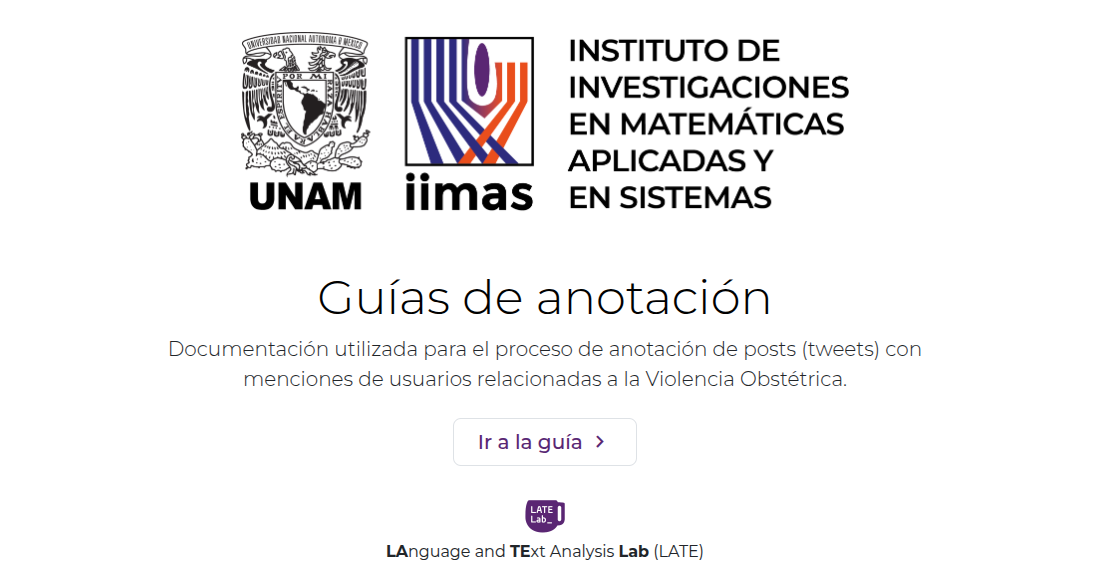
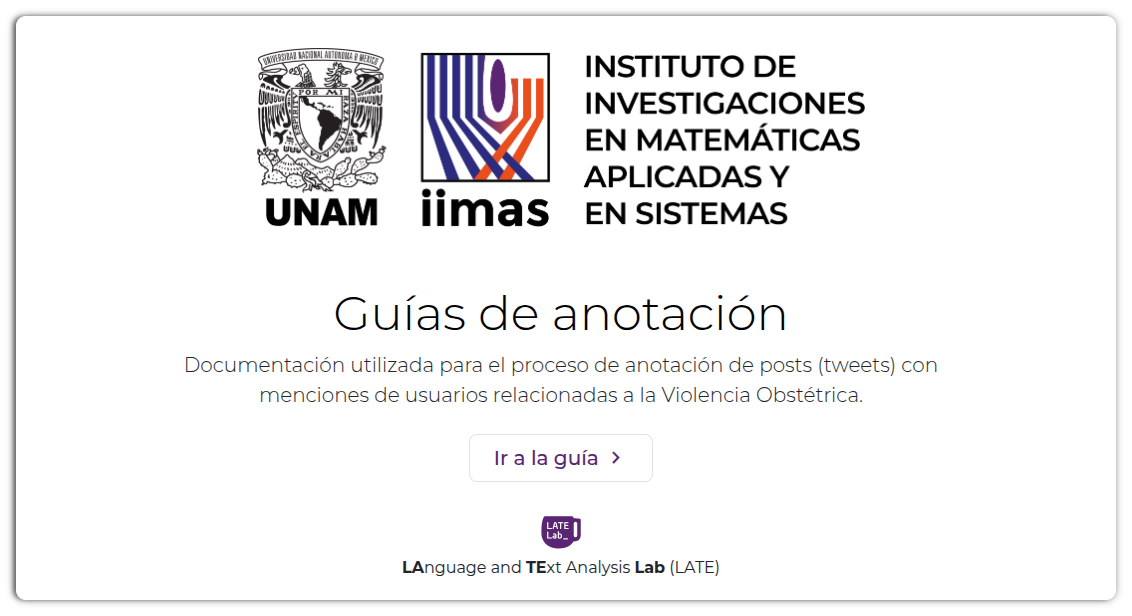
img with rounded border and shadow

diff --git a/README.md b/README.md
@@ -4,7 +4,7 @@
 Documentación utilizada para el proceso de anotación manual para identificar tweets relacionados con Violencia Obstétrica.
 
 <a href="https://pln-disca-iimas.github.io/obstetric-violence-tweets/" target="_blank" title="Acceder a Guías de anotación">
-<img src="img/guidelines.png" style="box-shadow: rgba(0, 0, 0, 0.2) 0px 12px 28px 0px, rgba(0, 0, 0, 0.1) 0px 2px 4px 0px, rgba(255, 255, 255, 0.05) 0px 0px 0px 1px inset; border-radius: 10px; margin-bottom:1em;" alt="guía anotación">
+<img src="img/guidelines.png" alt="guía anotación">
 </a>
 
 ## Palabras clave
